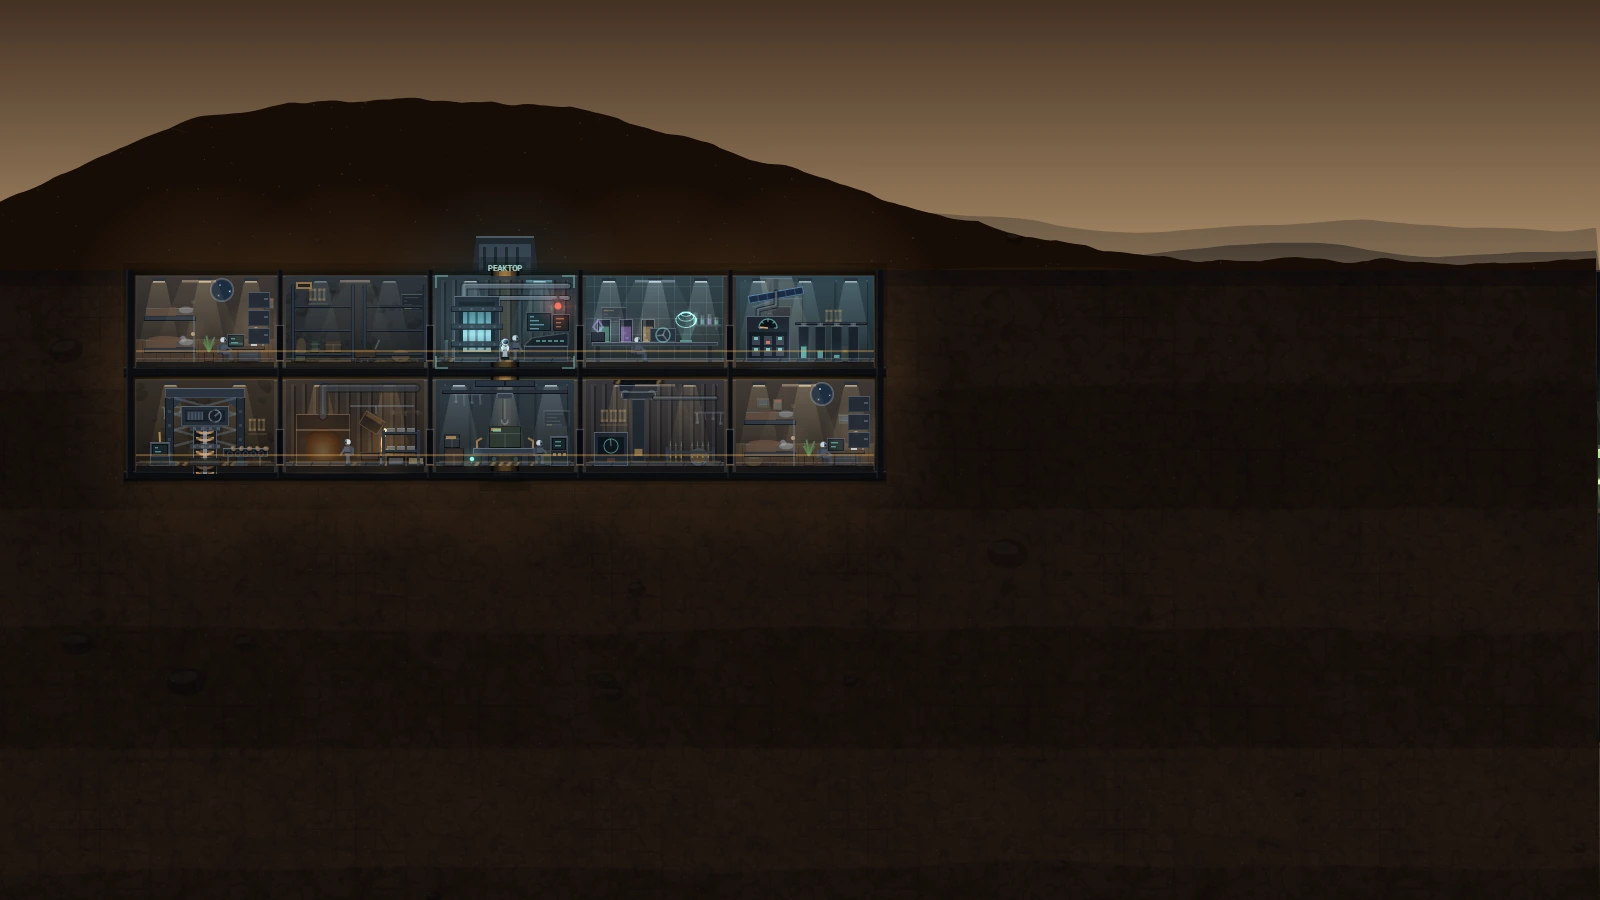
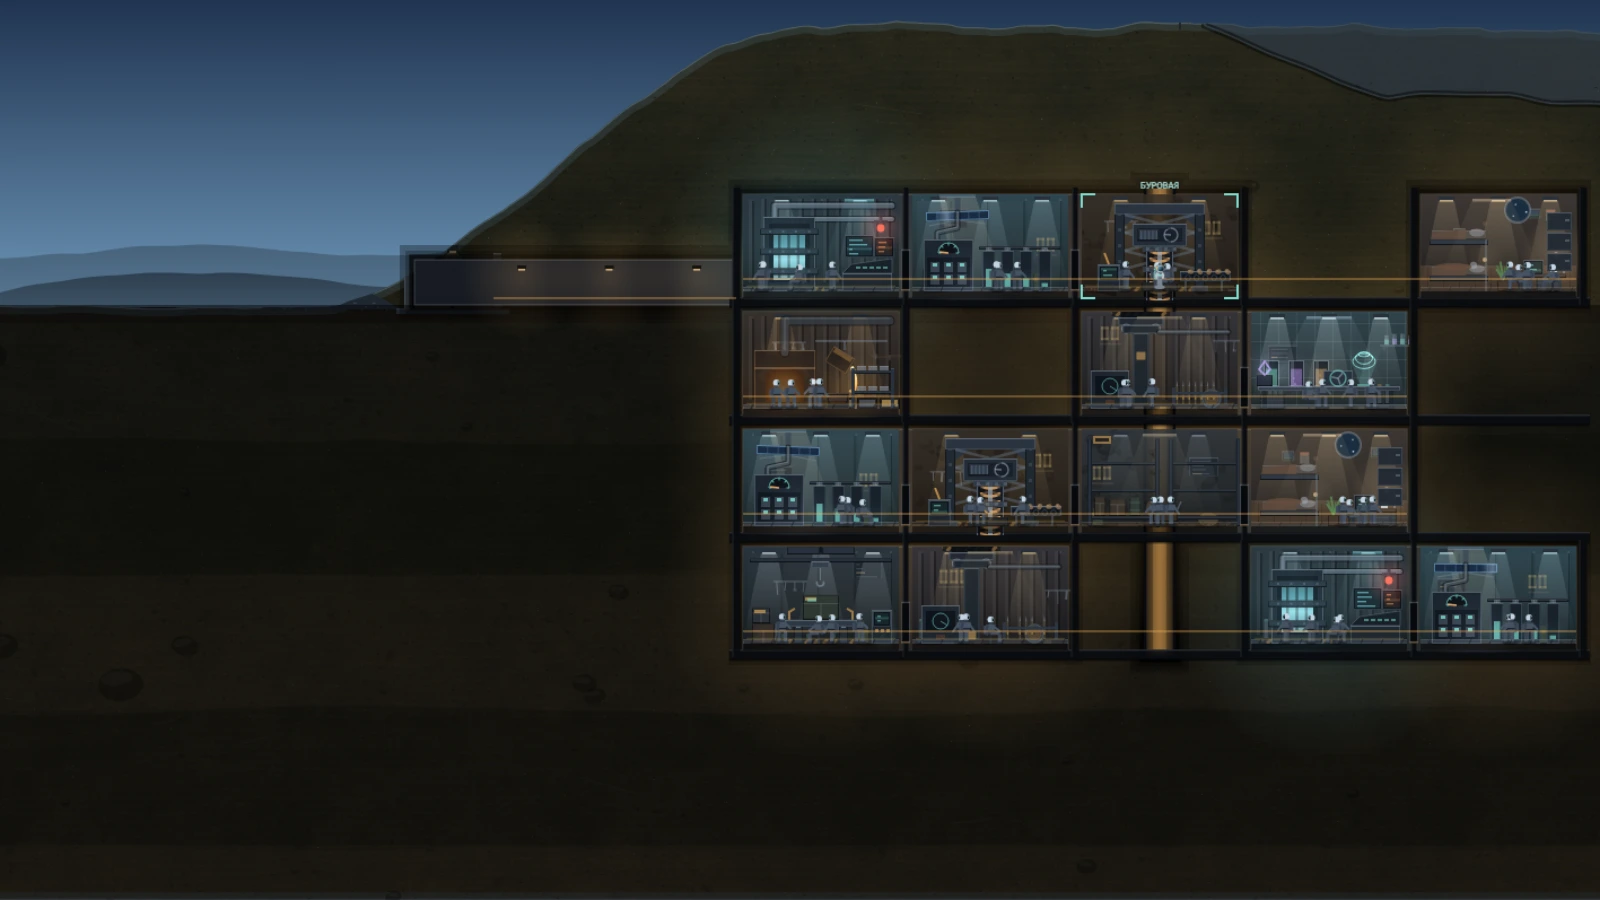
shots: README and the site reshot from 0.136.0, texts caught up
Every README scene retaken from the current build, so the pages finally show M169's
redrawn screens and M170's home instead of a build three passes old. Two scenes are new:
the yard the house stands in and the study inside it.

The site's seven frames are retaken too, and its gallery gained the home. Both pages
carried claims that were no longer true: alt text describing rings and an eclipse that
are not in the frames any more, the fourteenth pass listed as "being written now" when it
has been finished since 0.127.0, and 1 340 test assertions against today's 6 340.

Tooling: docs/mksiteshots.ps1 shoots the landing page's frames — the game's own canvas
without the interface, cropped to exactly 1600x900 because the page reserves space by
those numbers. Two facts cost an evening and are written into the script so the next
session does not rediscover them: under --virtual-time-budget requestAnimationFrame runs
about twice, so frames are stepped by hand the way prof() does it; and G is a top-level
const, invisible on window.

diff --git a/site/index.html b/site/index.html
@@ -172,7 +172,7 @@
       </div>
     </div>
     <figure class="shot">
-      <img src="/shots/world.webp" width="1600" height="900" alt="Человек в скафандре стоит на чужой планете рядом с посадочным модулем, в небе затмение">
+      <img src="/shots/world.webp" width="1600" height="900" alt="Человек в скафандре идёт по джунглевой планете среди светящихся растений, в небе соседняя планета и звезда">
       <figcaption>Вы вышли из корабля. Дальше — пешком.</figcaption>
     </figure>
   </div>
@@ -180,12 +180,12 @@
 
 <section id="gal">
   <div class="eyebrow">Как это выглядит</div>
-  <h2>Шесть кадров из игры</h2>
+  <h2>Семь кадров из игры</h2>
   <p class="lead">Всё снято прямо в игре — ничего не дорисовано для сайта.</p>
   <div class="gal">
 
     <figure>
-      <img src="/shots/sys.webp" loading="lazy" width="1600" height="900" alt="Вид на звёздную систему сверху: корабль, планета с кольцами, подписи расстояний">
+      <img src="/shots/sys.webp" loading="lazy" width="1600" height="900" alt="Вид на звёздную систему сверху: корабль у газового гиганта, пояс астероидов, подписи расстояний">
       <figcaption>
         <h3>Где вы находитесь</h3>
         <p>Звёздная система сверху. Маленький кораблик посередине — это вы.
@@ -240,6 +240,16 @@
         <h3>Чем рискуете</h3>
         <p>Заход на посадку. Сесть можно почти везде, а вот взлёт стоит восемь
         единиц топлива. Сядете без запаса — останетесь на этой планете надолго.</p>
+      </figcaption>
+    </figure>
+
+    <figure>
+      <img src="/shots/home.webp" loading="lazy" width="1600" height="900" alt="Комната дома изнутри: под лампой стол, рядом жиличка в платье, на стене карта">
+      <figcaption>
+        <h3>Куда возвращаетесь</h3>
+        <p>Дом стоит на своей планете, и это не окно с карточками: к нему идут
+        пешком, в него заходят и ходят по комнатам. Чем больше заработали —
+        тем больше комнат. Те, кто там живёт, живут своей жизнью.</p>
       </figcaption>
     </figure>
 
@@ -342,7 +352,8 @@
     <div class="done"><i>✓</i><span>«В дорогу»: реальная поездка кормит корабль — GPS, крены, музыка красит туманности, местность размечена на звёздные сектора</span></div>
     <div class="done"><i>✓</i><span>Пилоты рядом: кто ещё едет по вашему сектору — летят попутными огоньками</span></div>
     <div class="done"><i>✓</i><span>Дом стоит на своей планете: до него доходят ногами, в него заходят и ходят по комнатам — с теми, кто там живёт</span></div>
-    <div class="now"><i>●</i><span>Четырнадцатый проход: снаряжение, жилец на борту, экспедиция</span></div>
+    <div class="done"><i>✓</i><span>Снаряжение, жилец на борту, институт и экспедиция — четырнадцатый проход дописан</span></div>
+    <div class="now"><i>●</i><span>Перерисовка экранов по списку найденных огрехов: шахта, газовый гигант, комнаты базы</span></div>
   </div>
 </section>
 

diff --git a/README.md b/README.md
@@ -112,6 +112,10 @@ who sits there depends on the station's kind. Managers are hired here, one per d
 darken with loyalty. An empty seat is drawn as an empty seat.
 </td>
 <td width="50%" valign="top">
+<img src="docs/shots/rooms.png" alt="Inside the home: the study under its lamp, Vega by the desk" width="100%">
+<b>The home from inside.</b> Eight tiers of turnover are eight rooms you walk through, each with
+its own floor and its own things. The people who live there live there: Vega keeps to the study,
+the lodger keeps house, off-duty crew rest in the hall.
 </td>
 </tr>
 </table>
@@ -445,8 +449,9 @@ On a phone, «В ДОРОГУ» turns a real trip into flight: GPS speed ×1 000
 banks and sways the hull through real turns, acceleration pulls it up the screen and braking
 down, and the microphone drives the scene — nebulae change colour with the music's mood, a
 beat births falling stars, the bottom of the screen glows with the track. Real land is mapped
-onto the universe: every ~2.8 km cell is a named star system, and the site counts other pilots
-riding the same sector (an anonymous tag and a cell number are all that leave the phone).
+onto the universe: every ~2.8 km cell is a named star system, and other pilots riding the same
+sector fly alongside as distant companion lights — a spark with an exhaust each, the same set for
+everyone in the cell (an anonymous tag and a cell number are all that leave the phone).
 Kilometres earn capped in-game credits, with a combo for riding without stopping.
 
 ## Graphics and sound
@@ -517,7 +522,7 @@ powershell -ExecutionPolicy Bypass -File build.ps1
 ```
 
 The same build produces `tests.html` — open it in a browser and it runs the suites against the
-real game state (currently 1 340 assertions, nothing mocked) and prints the report on the page.
+real game state (currently 6 340 assertions, nothing mocked) and prints the report on the page.
 
 Module order matters: the whole game shares one scope, so constants and tables must be declared
 before anything reads them at top level. A new module gets a new numeric prefix in the right
@@ -552,6 +557,14 @@ own law, its rumours and its returners — and the game its release face: a bott
 tunable receiver on every screen, one table that holds everything you read, and the road
 companion that flies your ship along your real commute.
 
-In progress: the fourteenth pass — the kit, the lodger on board, the expedition.
+The fourteenth pass is finished too — the kit and the suit doll, the lodger who moves in, the
+record book, the institute and its expedition, the trainee, and the phone edition. After it the
+game was looked at again screen by screen (the settlement, the mine, the cantina, deposits, the
+ground cross-section, the gas giant), and the home stopped being a panel and became a house you
+walk into.
+
+In progress: the graphics debt written down from looking, one fault at a time — the mine's
+shafts, the gas giant baked too soft, the machine-filled rooms of a base — and the passes the
+home may still want: furniture in the hall and at the dock, sounds indoors.
 
 Balance is tuned against measurements, so the numbers move between versions.
